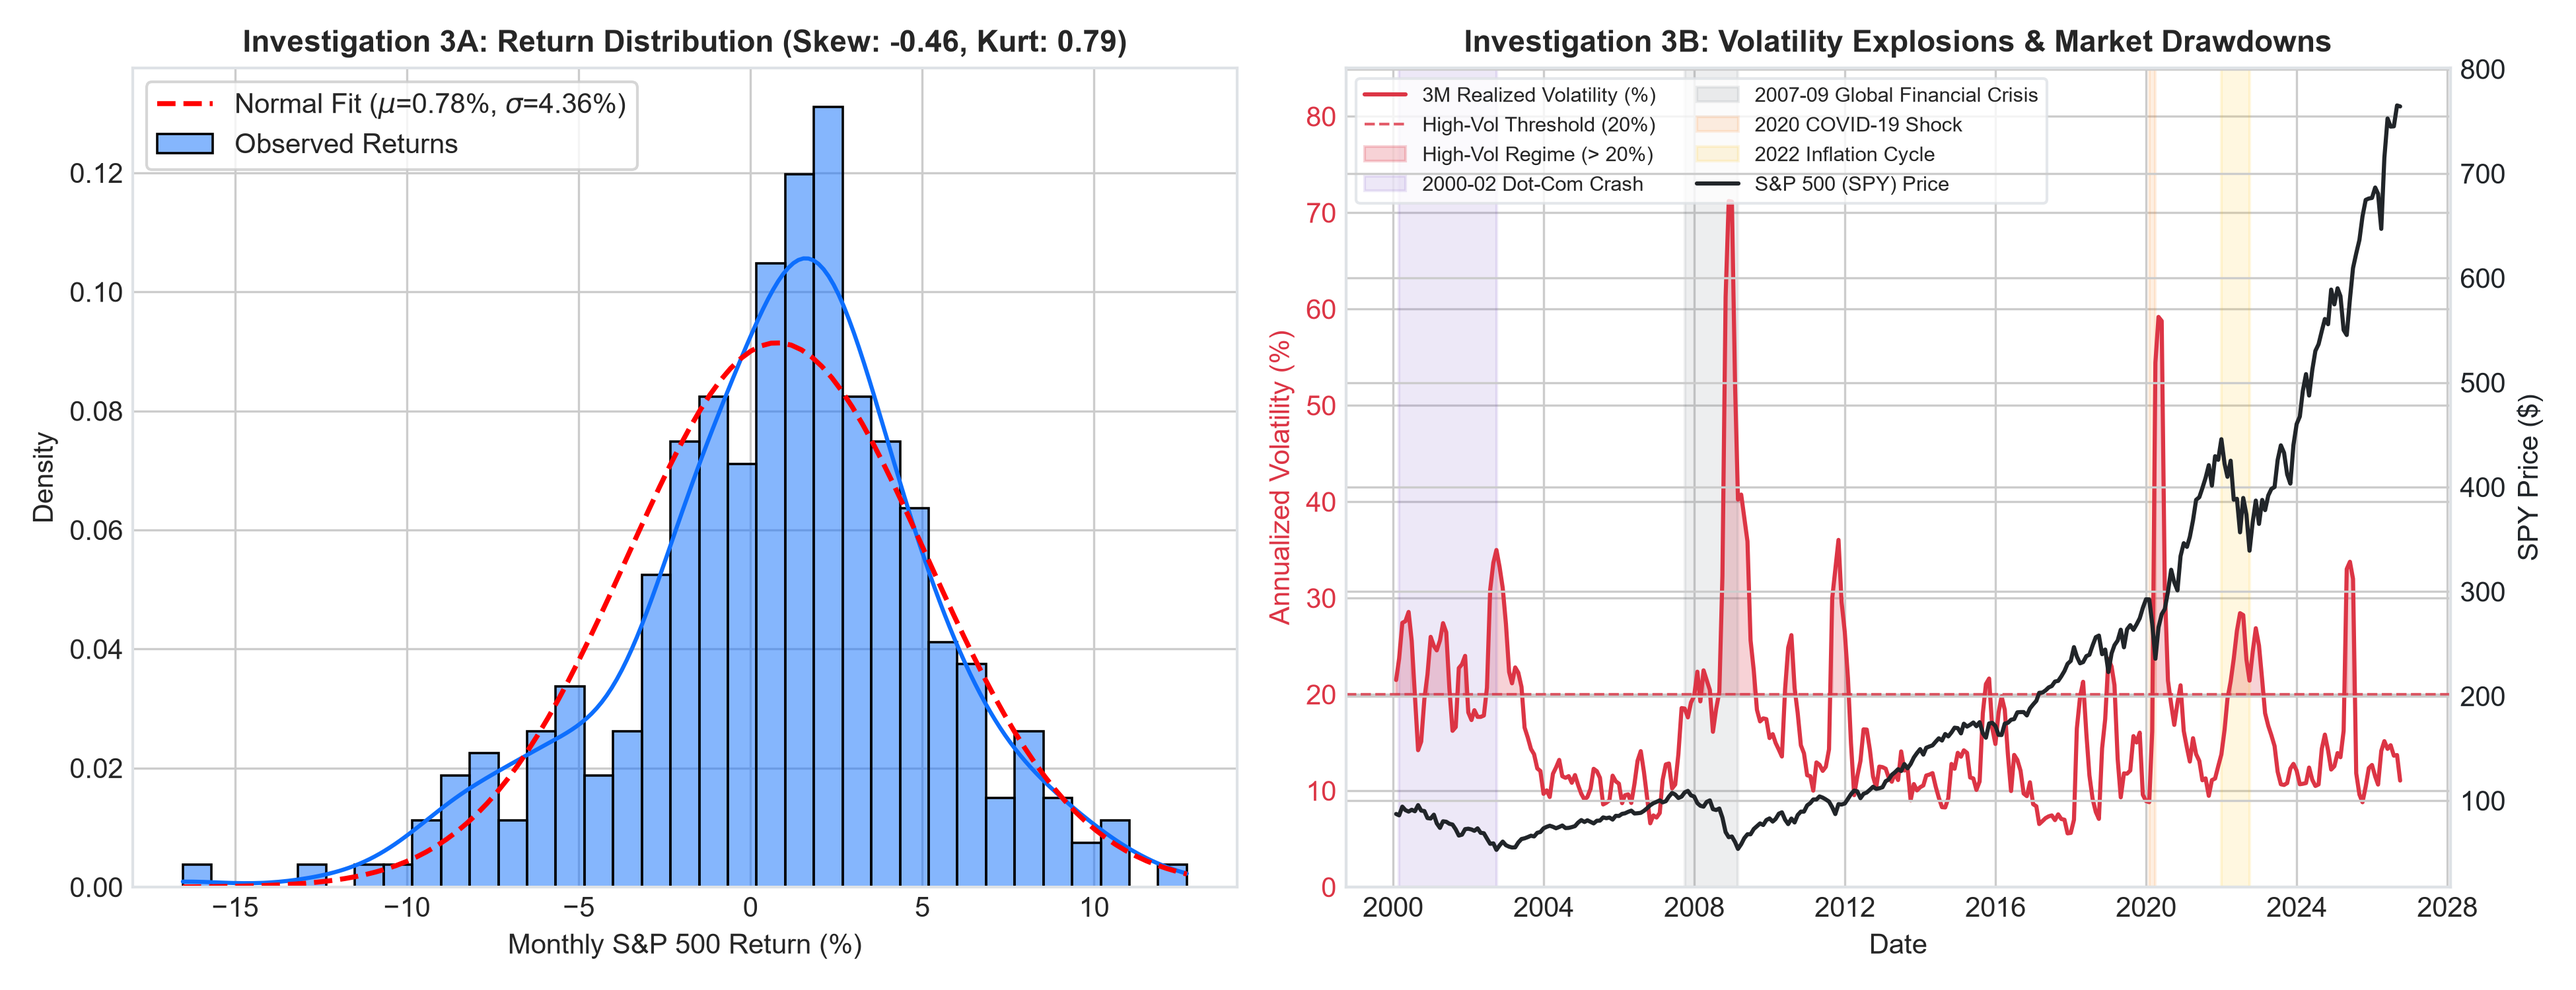
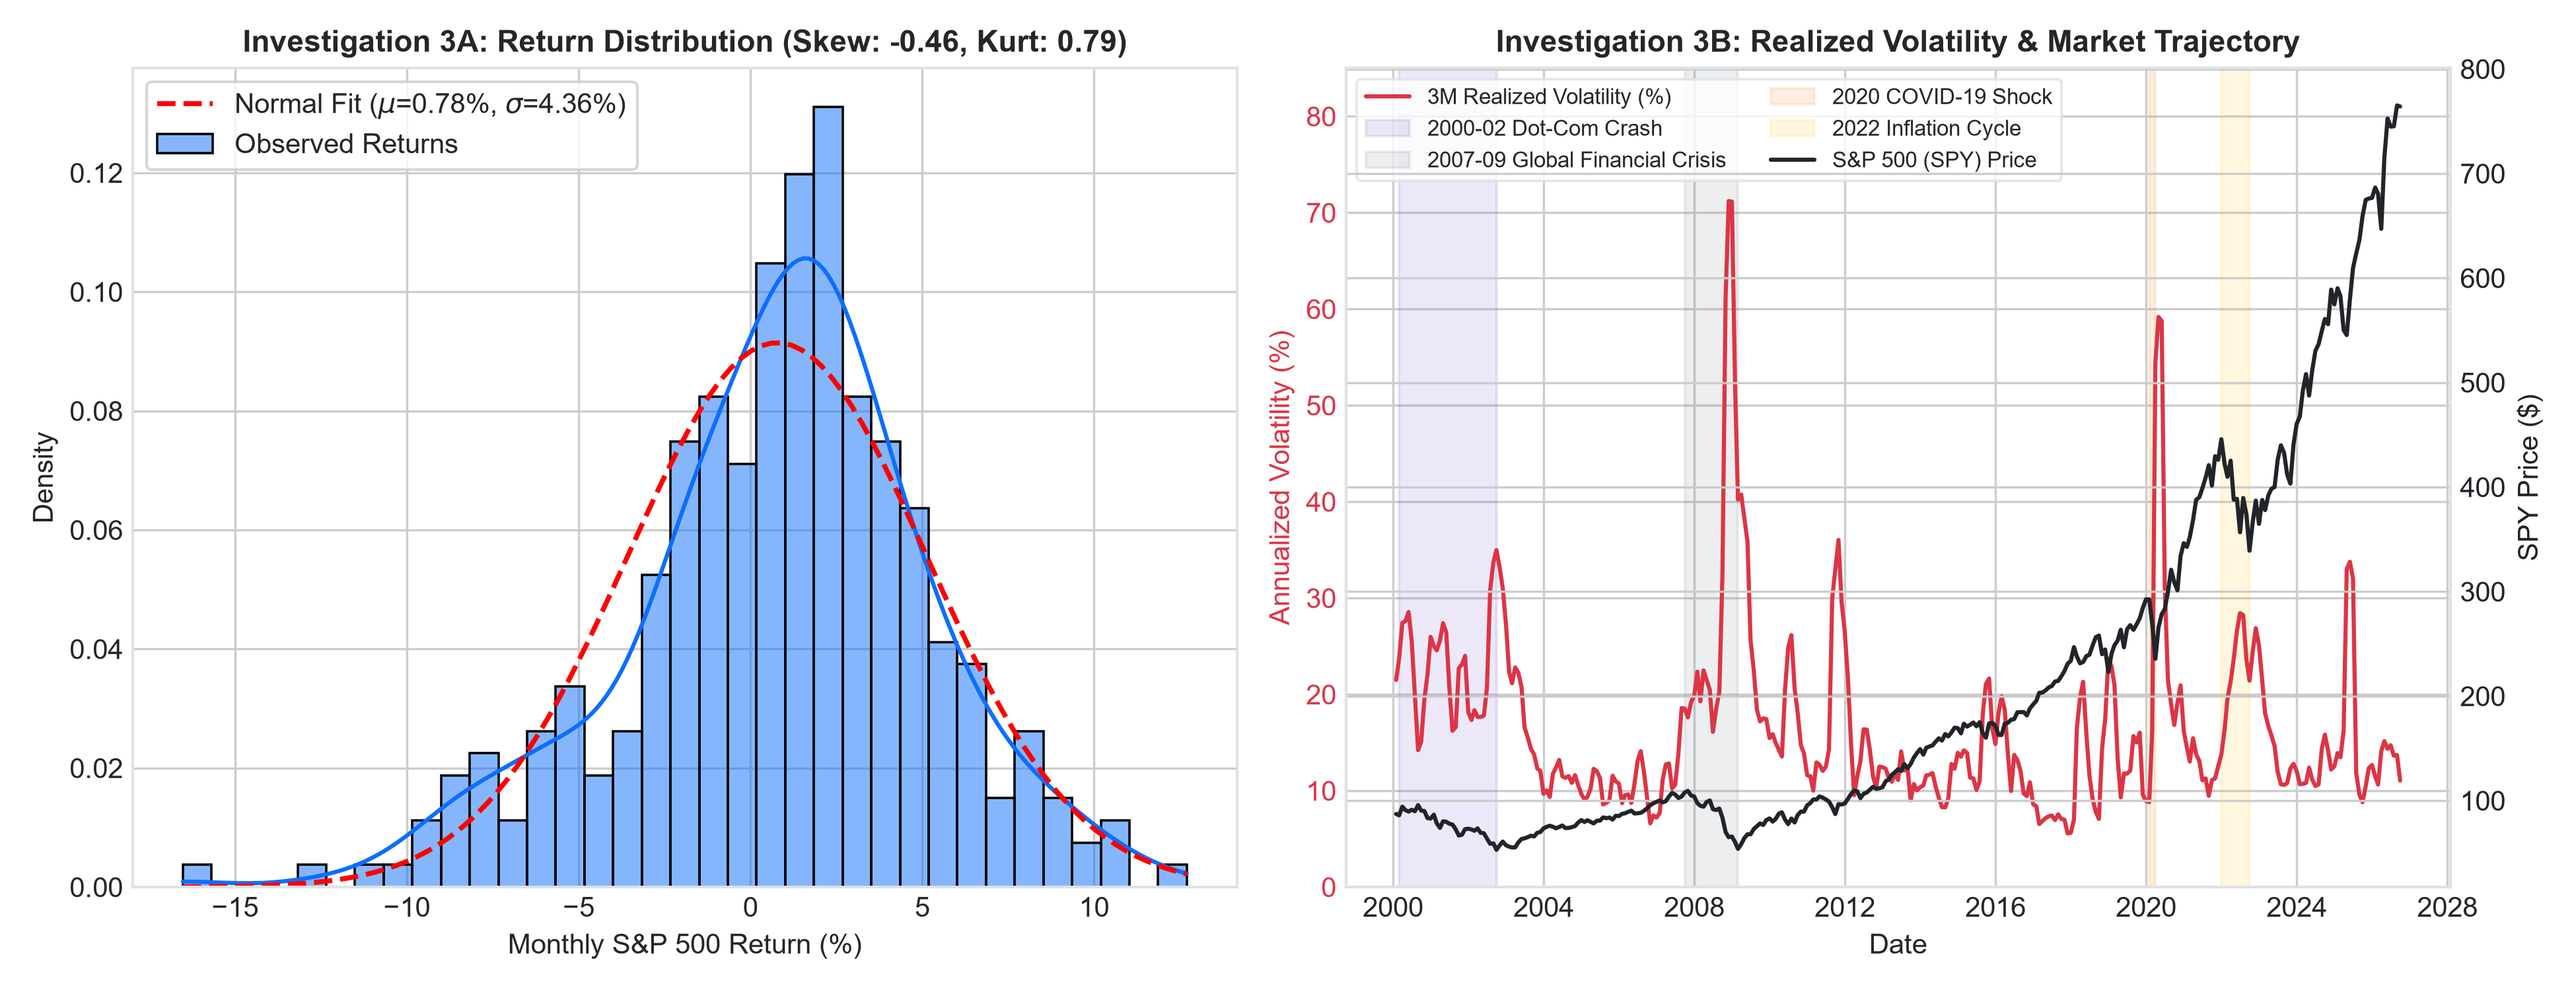
Update Investigation 3B: simplify to pure volatility curve and SPY price without arbitrary 20% threshold

diff --git a/eda_analysis.py b/eda_analysis.py
@@ -134,8 +134,6 @@ def run_eda():
     # 3B: Time series of 3-Month Realized Volatility with SPY price on twin axis
     vol_series = df['SPY_Vol_3M'] * 100
     ax_vol.plot(df.index, vol_series, color='#dc3545', linewidth=1.5, label='3M Realized Volatility (%)')
-    ax_vol.axhline(20, color='#dc3545', linestyle='--', linewidth=1.0, alpha=0.8, label='High-Vol Threshold (20%)')
-    ax_vol.fill_between(df.index, vol_series, 20, where=(vol_series > 20), color='#dc3545', alpha=0.22, label='High-Vol Regime (> 20%)')
     ax_vol.set_ylabel("Annualized Volatility (%)", color='#dc3545', fontsize=10)
     ax_vol.tick_params(axis='y', labelcolor='#dc3545')
     ax_vol.set_ylim(0, 85)
@@ -152,13 +150,13 @@ def run_eda():
     ax_vol.axvspan(pd.to_datetime('2020-02-01'), pd.to_datetime('2020-04-01'), color='#fd7e14', alpha=0.12, label='2020 COVID-19 Shock')
     ax_vol.axvspan(pd.to_datetime('2022-01-01'), pd.to_datetime('2022-10-01'), color='#ffc107', alpha=0.12, label='2022 Inflation Cycle')
     
-    ax_vol.set_title("Investigation 3B: Volatility Explosions & Market Drawdowns", fontsize=11, fontweight='bold')
+    ax_vol.set_title("Investigation 3B: Realized Volatility & Market Trajectory", fontsize=11, fontweight='bold')
     ax_vol.set_xlabel("Date")
     
     # Combined legend
     lines_v1, labels_v1 = ax_vol.get_legend_handles_labels()
     lines_v2, labels_v2 = ax_vol_twin.get_legend_handles_labels()
-    ax_vol.legend(lines_v1 + lines_v2, labels_v1 + labels_v2, loc='upper left', frameon=True, facecolor='#ffffff', edgecolor='#dee2e6', fontsize=7.5, ncol=2)
+    ax_vol.legend(lines_v1 + lines_v2, labels_v1 + labels_v2, loc='upper left', frameon=True, facecolor='#ffffff', edgecolor='#dee2e6', fontsize=8, ncol=2)
     
     plt.tight_layout()
     plt.savefig('plots_eda/eda_inv3_volatility_clustering.png', dpi=300)
